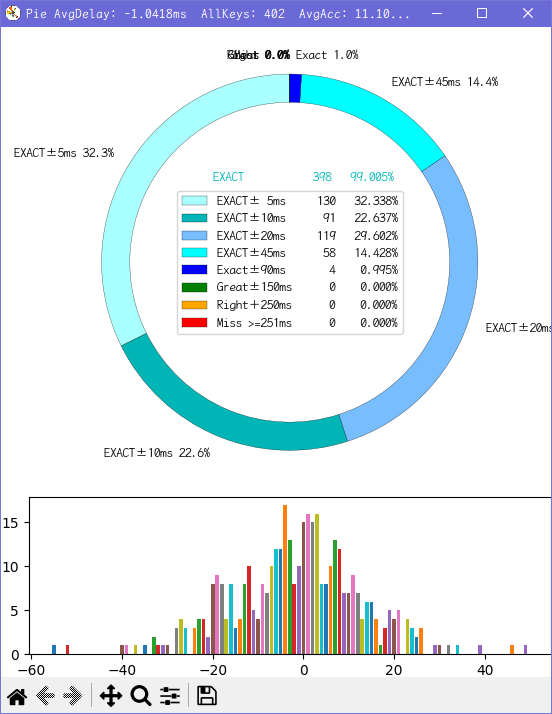
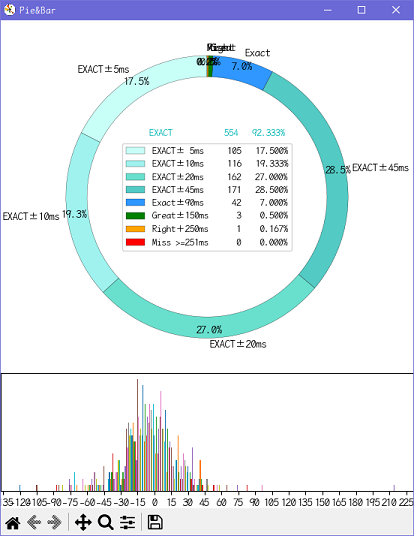
1.2.5pre10  更新readme贴图，优化排序规则，修复图例错误，优化饼图色块  NotRelease

diff --git a/HitDelay.py b/HitDelay.py
@@ -328,7 +328,7 @@ class HitDelayDraw(object):
 		fig = plt.figure(f'AvgDelay: {"%.4fms"%self.avgDelay}    ' \
 			f'AllKeys: {self.allKeys}    AvgAcc: {"%.4fms"%self.avgAcc}',figsize=(9, 4))
 		fig.clear()
-		fig.subplots_adjust(**{"left":0.048,"bottom":0.05,"right":1,"top":1})
+		fig.subplots_adjust(**{"left":0.045,"bottom":0.055,"right":1,"top":1})
 		ax = fig.add_subplot()
 		plt.rcParams['font.serif'] = ["LXGW WenKai Mono"]
 		plt.rcParams["font.sans-serif"] = ["LXGW WenKai Mono"]
@@ -390,12 +390,11 @@ class HitDelayDraw(object):
 		wedgeprops = {'width':0.15, 'edgecolor':'black', 'linewidth':0.2}
 		if self.sum[0]/sum(self.sum) > 0.6:
 			exCountSum = sum(self.exCount)
-			ax1.pie(self.exCount, wedgeprops=wedgeprops, startangle=90, autopct='%1.1f%%', pctdistance = 0.95, labeldistance = 1.05, 
-				colors=['#c8fff7','#9ff2ee','#69e0ce','#53cac4', '#2F97FF', 'green', 'orange', 'red'],
-				# autopct=lambda x:'%.3f%%'%(x*sum(self.exCount)/100+0.5),
-				labels=["EXACT±5ms", "EXACT±10ms", "EXACT±20ms", "EXACT±45ms", "Exact", "Great", "Right", "Miss"],
+			pieRtn = ax1.pie(self.exCount, wedgeprops=wedgeprops, startangle=90, autopct='%1.1f%%', pctdistance = 0.95, labeldistance = 1.05, 
+				colors=['#9dfff0',    '#69f1f1',     '#25d8d8',     '#32a9c7',     '#2F97FF', 'green', 'orange', 'red', ], 
+				labels=["EXACT±5ms", "EXACT±10ms", "EXACT±20ms", "EXACT±45ms", "Exact",   "Great", "Right",  "Miss", ],
 				textprops={'size':10})
-			ax1.legend(prop={'size':9},loc='center',
+			ax1.legend(prop={'size':9},loc='center', handles=pieRtn[0], 
 				labels=[
 					f"EXACT± 5ms  {Count(self.exCount[0])}  {Percentage(self.exCount[0], exCountSum)}", 
 					f"EXACT±10ms  {Count(self.exCount[1])}  {Percentage(self.exCount[1], exCountSum)}", 
@@ -404,7 +403,7 @@ class HitDelayDraw(object):
 					f"Exact±90ms  {Count(self.exCount[4])}  {Percentage(self.exCount[4], exCountSum)}", 
 					f"Great±150ms {Count(self.exCount[5])}  {Percentage(self.exCount[5], exCountSum)}", 
 					f"Right＋250ms {Count(self.exCount[6])}  {Percentage(self.exCount[6], exCountSum)}", 
-					f"Miss >=251ms {Count(self.exCount[7])}  {Percentage(self.exCount[7], exCountSum)}"],
+					f"Miss >=251ms {Count(self.exCount[7])}  {Percentage(self.exCount[7], exCountSum)}", ],
 				)
 			ax1.text(-0.41,0.48,f"EXACT        {Count(sum(self.exCount[0:4]))}  " \
 				f"{Percentage(sum(self.exCount[0:4]), exCountSum)}", 

diff --git a/AllHitAnalyze.py b/AllHitAnalyze.py
@@ -215,12 +215,12 @@ class HitAnalyze(object):
 		accurateRateSum = sum(self.accurateRate)
 
 		wedgeprops = {'width':0.15, 'edgecolor':'black', 'linewidth':0.2}
-		ax2.pie(self.accurateRate, wedgeprops=wedgeprops, startangle=90, autopct='%1.1f%%', pctdistance = 0.95, labeldistance = 1.05, 
-			colors=['#c8fff7','#9ff2ee','#69e0ce','#53cac4', '#2F97FF', 'green', 'orange', 'red'],
-			# autopct=lambda x:'%.3f%%'%(x*sum(self.accurateRate)/100+0.5),
-			labels=["EXACT±5ms", "EXACT±10ms", "EXACT±20ms", "EXACT±45ms", "Exact", "Great", "Right", "Miss"],
+		pieRtn = ax2.pie(self.accurateRate, wedgeprops=wedgeprops, startangle=90, autopct='%1.1f%%', pctdistance = 0.95, labeldistance = 1.05, 
+			colors=['#9dfff0',    '#69f1f1',     '#25d8d8',     '#32a9c7',     '#2F97FF', 'green', 'orange', 'red', ], 
+			labels=["EXACT±5ms", "EXACT±10ms", "EXACT±20ms", "EXACT±45ms", "Exact",   "Great", "Right",  "Miss", ], 
 			textprops={'size':12})
-		ax2.legend(prop={'size':12},loc='center',
+		ax2.legend(prop={'size':12},loc='center', handles=pieRtn[0], 
+			# labelcolor=['#9dfff0', '#69f1f1', '#25d8d8', '#32a9c7', '#2F97FF', 'green', 'orange', 'red', ], 
 			labels=[
 				f"EXACT± 5ms  {Count(self.accurateRate[0])}  {Percentage(self.accurateRate[0], accurateRateSum)}", 
 				f"EXACT±10ms  {Count(self.accurateRate[1])}  {Percentage(self.accurateRate[1], accurateRateSum)}", 
@@ -229,11 +229,11 @@ class HitAnalyze(object):
 				f"Exact±90ms  {Count(self.accurateRate[4])}  {Percentage(self.accurateRate[4], accurateRateSum)}", 
 				f"Great±150ms {Count(self.accurateRate[5])}  {Percentage(self.accurateRate[5], accurateRateSum)}", 
 				f"Right＋250ms {Count(self.accurateRate[6])}  {Percentage(self.accurateRate[6], accurateRateSum)}", 
-				f"Miss > 250ms {Count(self.accurateRate[7])}  {Percentage(self.accurateRate[7], accurateRateSum)}"],
+				f"Miss > 250ms {Count(self.accurateRate[7])}  {Percentage(self.accurateRate[7], accurateRateSum)}", ],
 			)
-		ax2.text(-0.41,0.48,f"EXACT        {Count(sum(self.accurateRate[0:4]))}  " \
+		ax2.text(0.1,0.5,f"EXACT        {Count(sum(self.accurateRate[0:4]))}  " \
 			f"{Percentage(sum(self.accurateRate[0:4]), accurateRateSum)}", 
-			ha='left',va='top',fontsize=12,color='#00B5B5', )
+			ha='center',va='top',fontsize=12,color='#00B5B5', )
 
 if __name__ == '__main__':
 	HitAnalyze().Show()

diff --git a/MainWindowOldStyle.py b/MainWindowOldStyle.py
@@ -79,7 +79,7 @@ class MusyncSavDecodeGUI(object):
 		self.totalSync = 0
 		self.avgSyncVar = StringVar()
 		self.avgSyncVar.set(f'{(self.totalSync / (1 if self.saveCount==0 else self.saveCount))}')
-		self.dataSortMethodsort = [None,False]
+		self.dataSortMethodsort = [None,True]
 		self.dataSelectMethod = None
 		self.treeviewColumns = ["SpeedStall",'SongName',"Keys","Difficulty","DifficultyNumber","SyncNumber","Rank","UploadScore","PlayCount","IsFav"]
 		self.difficute = 3
@@ -324,7 +324,7 @@ class MusyncSavDecodeGUI(object):
 				self.dataSortMethodsort[1] = not self.dataSortMethodsort[1]
 			else:
 				self.dataSortMethodsort[0] = col
-				self.dataSortMethodsort[1] = False
+				self.dataSortMethodsort[1] = True
 			if col == 'SyncNumber' or col == 'UploadScore':
 				l = [(float((self.saveData.set(k, col))[:-1]), k) for k in self.saveData.get_children('')]
 			elif col == 'PlayCount':

diff --git a/MusyncSavDecodeGUI.py b/MusyncSavDecodeGUI.py
@@ -23,7 +23,7 @@ from HitDelay import HitDelayCheck,HitDelayText
 import MusyncSavDecode
 
 version = '1.2.5rc6'
-preVersion = "1.2.5pre9"
+preVersion = "1.2.5pre10"
 isPreRelease = True
 # isPreRelease = False
 
